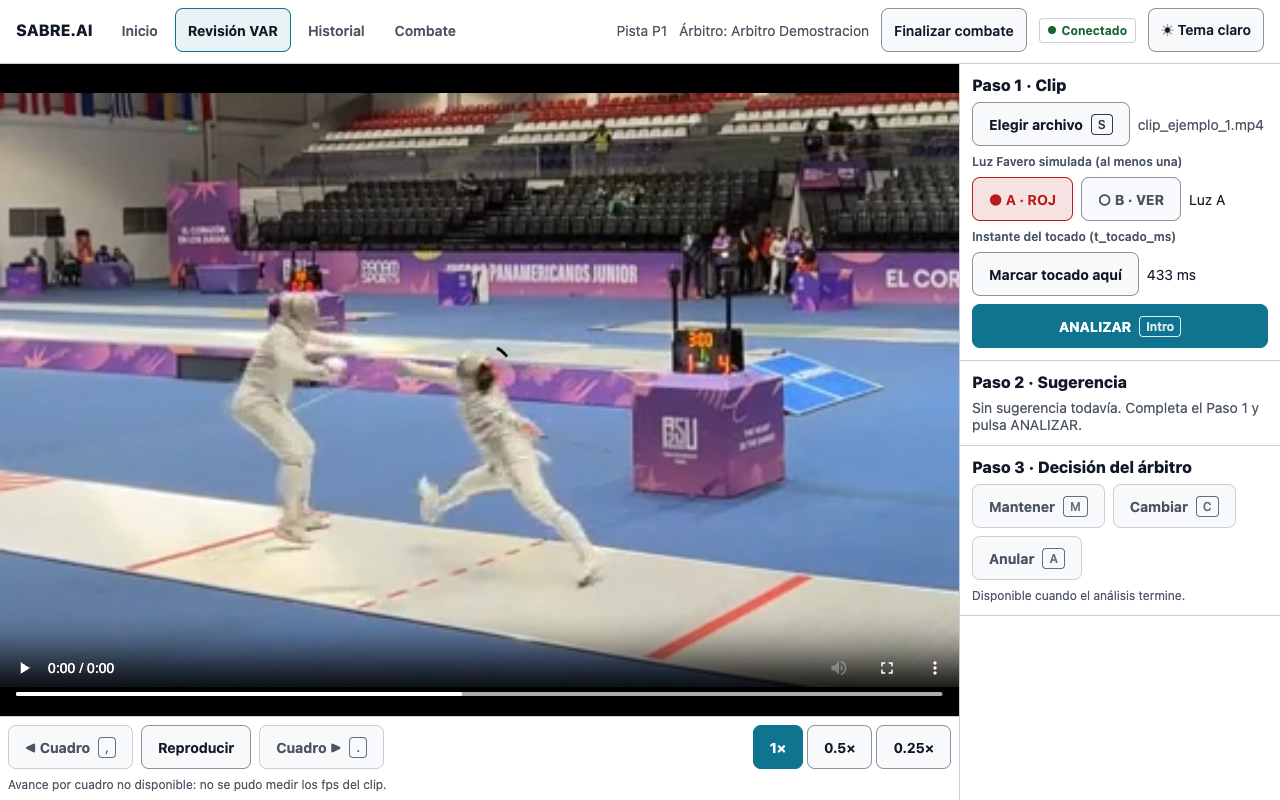
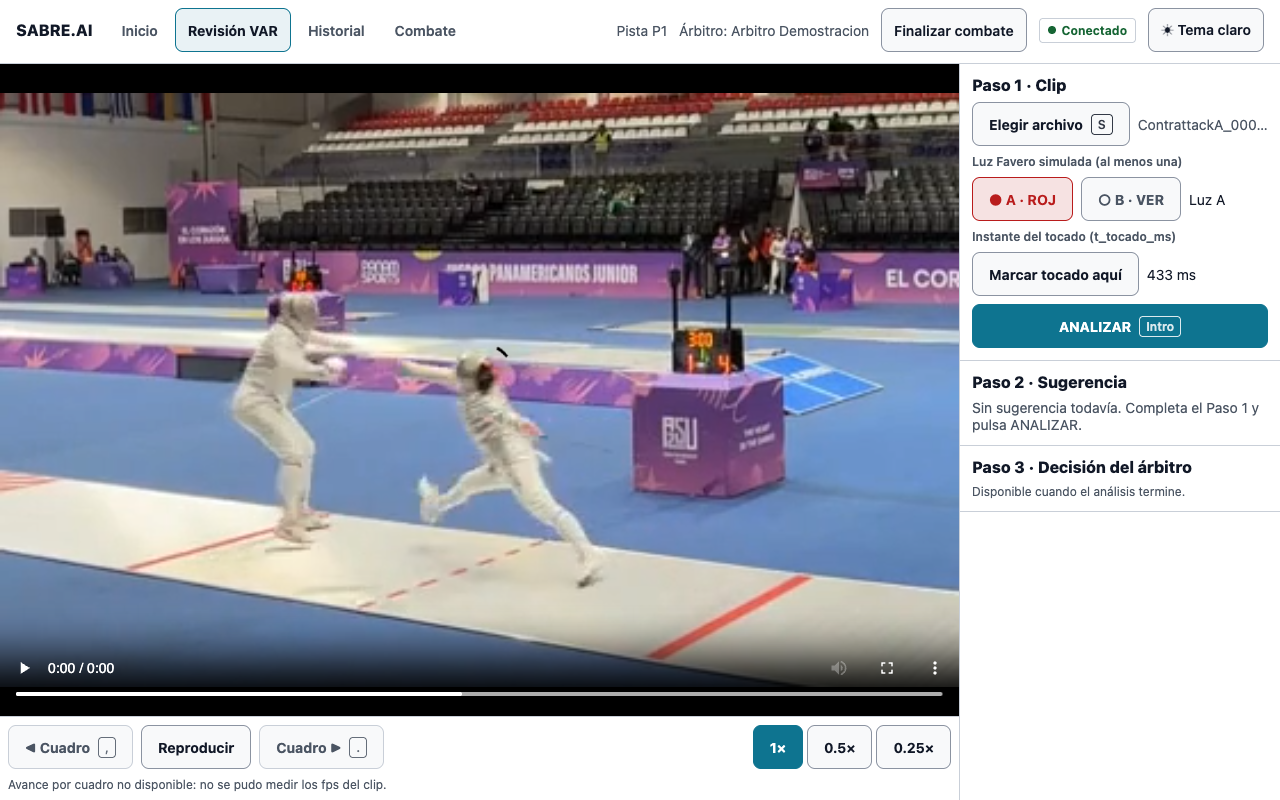
docs(DEF-28): manual 4.5 con la captura por clase final, capturas regeneradas y guía para regenerarlas

Changed region(s): [[0.75, 0.5938, 0.9688, 0.75], [0.9062, 0.1562, 0.9688, 0.1875]]

diff --git a/docs/manuales/MANUAL_USUARIO.md b/docs/manuales/MANUAL_USUARIO.md
@@ -130,28 +130,23 @@ Esta versión no muestra la superposición biomecánica sobre el video (CU-08) n
 
 ### 4.5 Registrar la decisión (CU-10, F-033)
 
-El "Paso 3 · Decisión del árbitro" tiene tres botones. Se activan cuando el análisis terminó y hay una revisión abierta.
-
-| Botón | Atajo | Qué registra |
-|---|---|---|
-| "Mantener" | M | La clase sugerida como clase final. Está activo solo si hay sugerencia. |
-| "Cambiar" | C | La clase final que usted elija. Puede usarse sin sugerencia. |
-| "Anular" | A | La anulación de la acción, sin clase final (acción simultánea, FIE t.106). |
+El "Paso 3 · Decisión del árbitro" se activa cuando el análisis terminó y hay una revisión abierta. Usted siempre declara la clase final entre las 6 clases, o anula la acción. La sugerencia del sistema aparece destacada con la marca "Sugerencia del sistema", pero nunca viene elegida.
 
 Procedimiento:
 
-1. Revise el video y la sugerencia.
-2. Pulse "Mantener", "Cambiar" o "Anular".
-3. Si pulsó "Cambiar", aparece "Elige la clase final" con las 6 clases. La clase sugerida lleva la marca "(sugerida)" y no está preseleccionada. Pulse la clase final. Para volver sin decidir, pulse "Cancelar" (atajo Esc).
-4. Resultado esperado: aparece "Veredicto registrado" con "Mantiene", "Cambia" o "Anula" y, si corresponde, la clase final.
+1. Revise el video y la sugerencia (sección 4.4).
+2. En "Clase final (elige una de las 6)", pulse la clase que usted decide. Puede coincidir o no con la sugerida. Con el botón aparte "Anular la acción" (atajo A) registra la anulación, sin clase final (acción simultánea, FIE t.106).
+3. Si eligió una clase, responda "¿Cambia la decisión original en pista?". "Sí" registra "Cambia" y "No" registra "Mantiene". La pregunta no tiene respuesta por defecto. Si anula, no aparece.
+4. Revise "Resumen antes de registrar" y pulse "Confirmar y registrar". El botón está desactivado mientras falte la clase (o Anular) o la respuesta; debajo aparece "Falta:" con lo que falta. "Borrar elección" (atajo Esc) deja todo sin elegir.
+5. Resultado esperado: aparece "Veredicto registrado" con "Mantiene", "Cambia" o "Anula" y, si corresponde, la clase final.
 
-![Selección de la clase final](img/09-revision-selector-clase.png)
+![Selección de la clase final, respuesta y resumen](img/09-revision-selector-clase.png)
 
 ![Veredicto registrado](img/08-revision-veredicto-registrado.png)
 
-Una vez registrada, la decisión no se puede editar: los botones quedan desactivados y el sistema rechaza un segundo veredicto sobre la misma revisión (error 409). Los registros son de solo adición.
+Si la sugerencia no estuvo disponible, el selector muestra las 6 clases sin marca y usted decide igual. Una vez registrada, la decisión no se puede editar: el selector desaparece y el sistema rechaza un segundo veredicto sobre la misma revisión (error 409). Los registros son de solo adición.
 
-Si el registro falla, aparece "No se pudo registrar el veredicto" con la indicación "Vuelve a elegir tu decisión." Si no hay revisión abierta, el paso indica "No hay revisión abierta: continúe con el procedimiento VAR habitual." Antes de terminar el análisis indica "Disponible cuando el análisis termine." Sin sugerencia y con revisión abierta indica "Sin sugerencia: puede Cambiar (elige la clase) o Anular."
+Si el registro falla, aparece "No se pudo registrar el veredicto" con la indicación "Revisa tu decisión y vuelve a confirmarla." Si no hay revisión abierta, el paso indica "No hay revisión abierta: continúe con el procedimiento VAR habitual." Antes de terminar el análisis indica "Disponible cuando el análisis termine."
 
 ### 4.6 Finalizar el combate
 
@@ -241,8 +236,8 @@ Los datos del resumen y del modelo se leen del sistema. Si no existen o la consu
 |---|---|
 | S | Elegir archivo. |
 | Intro | ANALIZAR, cuando están completos los requisitos. |
-| M, C, A | Mantener, Cambiar, Anular. |
-| Esc | Cancelar la selección de la clase final. |
+| A | Elegir "Anular la acción". |
+| Esc | Borrar la elección de la decisión. |
 | Coma y punto | Cuadro anterior y cuadro siguiente. |
 | Ctrl+Intro | Crear combate. |
 
@@ -254,7 +249,7 @@ Los atajos sin Ctrl no actúan mientras escribe en un campo de texto.
 
 | Motivo | Texto en pantalla | Qué significa | Qué hacer |
 |---|---|---|---|
-| `pose_incompleta` | "No se pudo detectar a ambos tiradores en el clip." | El sistema no detectó a los dos tiradores, o el clip tiene menos de 3 fotogramas. | Siga el procedimiento VAR habitual. Verifique que el clip muestre a ambos tiradores y vuelva a cargarlo. Puede registrar "Cambiar" o "Anular". |
+| `pose_incompleta` | "No se pudo detectar a ambos tiradores en el clip." | El sistema no detectó a los dos tiradores, o el clip tiene menos de 3 fotogramas. | Siga el procedimiento VAR habitual. Verifique que el clip muestre a ambos tiradores y vuelva a cargarlo. Puede elegir la clase final o anular. |
 | `confianza_baja` | "La confianza de la sugerencia quedó por debajo del umbral configurado." | La confianza no alcanzó el umbral. En esta versión el sistema no produce este motivo, porque el umbral no está definido. | Siga el procedimiento VAR habitual. |
 | `clase_fuera_mvp` | "La acción detectada queda fuera de las 6 clases del sistema." | La acción no corresponde a una de las 6 clases. En esta versión el sistema no produce este motivo. | Siga el procedimiento VAR habitual. |
 | `timeout` | "El análisis superó el límite de 60 s." | El sistema no respondió a tiempo. | Siga el procedimiento VAR habitual. Puede volver a cargar el clip. Si se repite, avise a quien instala el sistema. |
@@ -262,7 +257,7 @@ Los atajos sin Ctrl no actúan mientras escribe en un campo de texto.
 | `mensaje_invalido` | "El análisis recibió datos inválidos." | Un componente interno rechazó los datos del clip. | Vuelva a cargar el clip. Si persiste, avise a quien instala el sistema. |
 | Otro valor | "El sistema no pudo clasificar la acción." | Motivo no reconocido. | Siga el procedimiento VAR habitual y avise a quien instala el sistema. |
 
-En todos los casos la pantalla agrega "Continúe con el procedimiento VAR habitual." y usted puede registrar "Cambiar" o "Anular".
+En todos los casos la pantalla agrega "Continúe con el procedimiento VAR habitual." y usted puede elegir la clase final o anular.
 
 ### Errores de la interfaz
 
@@ -336,4 +331,3 @@ Estas definiciones describen la anotación del conjunto de datos con el que se e
 - CU-16 Alertas de baja calidad de video o desincronización (F-011).
 - Autenticación por rol (RF-26).
 - Reportes por sesión en PDF o CSV desde la interfaz (F-009): el CSV de la sesión se genera con `scripts/exportar_evidencia.py`.
-- Captura de la decisión con la pregunta "¿Cambia la decisión original en pista?" y clase final obligatoria también con "Mantener" (documentada en `docs_claude/contexto_sabre.md`, sección 8): la interfaz actual registra "Mantener" con la clase sugerida.

diff --git a/docs/manuales/GUIA_INSTALACION.md b/docs/manuales/GUIA_INSTALACION.md
@@ -422,3 +422,33 @@ Para usar la base restaurada, cambie el nombre de la base en `DATABASE_URL`.
 | La interfaz muestra "No hay eventos registrados" o "No hay árbitros registrados" | La base no tiene sesión de validación. | Ejecute `scripts/crear_sesion_validacion.py` (sección 8) y pulse "Recargar". |
 | Una prueba con `testcontainers` se omite con "docs_claude/ no está junto a backend/" | Falta la carpeta hermana `docs_claude/`. | Copie `docs_claude/` junto a `backend/`. |
 | Aviso `objc: Class AVFFrameReceiver is implemented in both` en macOS | `opencv-python` y `av` incluyen la misma biblioteca. | Es un aviso; no impidió el funcionamiento en la validación. |
+
+## 13. Regenerar capturas
+
+Las 15 imágenes de `docs/manuales/img` se generan juntas con `e2e/capturas-manual.spec.ts`, contra Fog, Cloud, Redis y PostgreSQL reales, para que todas muestren el mismo evento. Si cambia la interfaz, regenere las 15, no solo las afectadas.
+
+1. Levante el sistema con puertos propios, sin tocar el que se usa en el piloto (secciones 4, 5 y 7). Por ejemplo, Redis en 6391, Fog en 8011 y el frontend de la prueba en 8082. Una base de humo distinta de la del piloto evita mezclar revisiones.
+2. Cree el evento de la sesión con `scripts/crear_sesion_validacion.py` (sección 8) y reutilice el árbitro que ya existe: use su nombre exacto en `--arbitro`. La captura agrega 3 revisiones a la base.
+3. Exporte las 8 variables del spec (están descritas en su cabecera):
+
+| Variable | Contenido |
+|---|---|
+| `EVENTO_NOMBRE` | Nombre del evento creado en el paso 2. |
+| `ARBITRO_NOMBRE` | Árbitro que ya existe en la base. |
+| `CLIP_1`, `CLIP_2` | Rutas absolutas de los clips de las revisiones 1 (mantener) y 2 (cambiar). |
+| `CLIP_SIN_TIRADORES` | Ruta absoluta de un video sin tiradores (revisión 3, "Clasificación no disponible"). |
+| `CLIP_1_T_MS`, `CLIP_2_T_MS` | Instante del tocado en ms: primer fotograma con luz de `dataset/labels/luz_annotations.csv` dividido por los fps, como en `docs/evidencia/prueba_humo_Q02.md`. |
+| `CAPTURAS_DIR` | Carpeta de salida, ruta absoluta: `<raíz>/backend/docs/manuales/img`. |
+
+4. Ejecute, con `EXPO_PUBLIC_FOG_URL` apuntando al Fog de la prueba y `E2E_PORT` a un puerto libre (Playwright reutiliza lo que encuentre en 8081):
+
+```bash
+cd <raíz>/SaberAISoftware
+EXPO_PUBLIC_FOG_URL=http://localhost:8011 E2E_PORT=8082 CAPTURAS=1 SISTEMA_REAL=1 \
+EVENTO_NOMBRE="<evento>" ARBITRO_NOMBRE="<árbitro>" \
+CLIP_1="<ruta>" CLIP_2="<ruta>" CLIP_SIN_TIRADORES="<ruta>" \
+CLIP_1_T_MS=<ms> CLIP_2_T_MS=<ms> CAPTURAS_DIR=<raíz>/backend/docs/manuales/img \
+npx playwright test e2e/capturas-manual.spec.ts
+```
+
+Resultado esperado: `1 passed` y las 15 imágenes actualizadas. Revise que ningún texto del manual cite un evento anterior.
